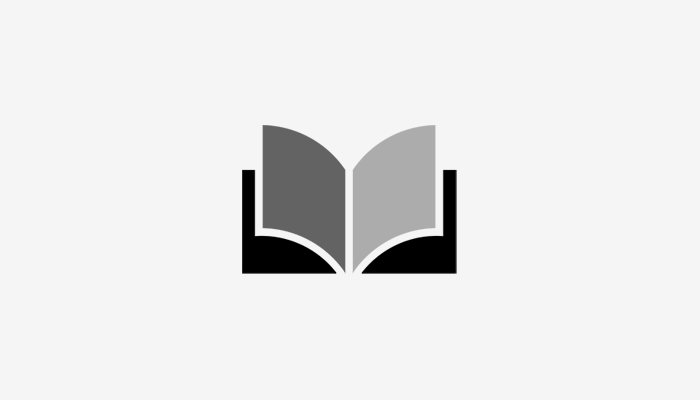
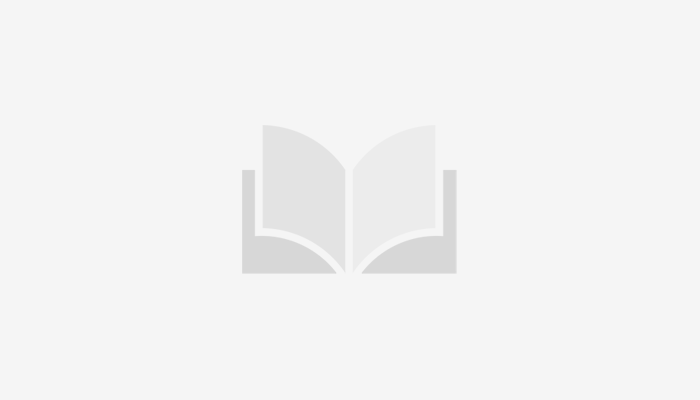
added images, tweakwed UI

Changed region(s): [[0.33, 0.3, 0.66, 0.69]]

diff --git a/lib/pages/Passage_Page.dart b/lib/pages/Passage_Page.dart
@@ -7,15 +7,11 @@ import '../classes/Story.dart';
 import '../classes/Passage.dart';
 import '../widgets/Drawer_Widget.dart';
 
-//  ----------------------------------------------------
-//  This page is the UI part of the main loop of the 
-//  "game."  It is where the magic happens.  It takes
-//  the json fetched by "Fetch_Page.dart" and 
-//  displays it in the UI.
-//
-//  Furthermore, this page accepts choices made by the user
-//  to fetch the next passage.
-//  ----------------------------------------------------
+//  ------------------------------------------------------------
+//  This page is the UI part of the main loop of the "game."  It
+//  is where the magic happens.
+//  For a *REALLY* thourough explanation see END NOTES below...
+//  ------------------------------------------------------------
 
 class Passage_Page extends StatefulWidget {
   const Passage_Page({ super.key });
@@ -41,10 +37,8 @@ class _Passage_PageState extends State<Passage_Page> {
     Utils.log( filename, 'initState()' );
     WidgetsBinding.instance.addPostFrameCallback((_) => _addPostFrameCallbackTriggered(context));
 
-    //  WILLFIX: initialize the ui
-    //    atm it is faked... choice_text and other stuff needs to
-    //    come from Passage() class (already filled out)
-    //    and this page is just for filling the ui
+    //  button_count is used by makeButton() to
+    //  keep track of which button is being made
     button_count = -1;
   }
 
@@ -59,6 +53,11 @@ class _Passage_PageState extends State<Passage_Page> {
     Utils.log( filename, ' _buildTriggered()');
   }
 
+//  ----------------------------------------------------
+//  makeButton() returns the buttons/choices at the 
+//  of each passage
+//  When a button is clicked, the PASSAGE KEY is used
+//  to fetch the next passage, and the loop continues...
   Container makeButton () {
     button_count++;
     int index = button_count;
@@ -84,10 +83,10 @@ class _Passage_PageState extends State<Passage_Page> {
           ),                        
           onPressed: () {
             Utils.log( filename, 'clicked choice #' + index.toString() + ' ("${ Passage.choice_key[index] }")');
-            //  <<< THIS IS WHERE NEXT JSON FILE IS SET >>>
+            //  <<< THIS IS WHERE NEXT "PASSAGE KEY"/"JSON FILE" IS SET >>>
             Config.PASSAGE_KEY = Passage.choice_key[index];
             
-              //  SPECIAL CASE #1: RESTART 
+              //  SPECIAL CASE #1: RESTART KEY
               if ( Config.PASSAGE_KEY == 'RESTART') { 
                 //  WILLFIX: Should this RESET go into Provider?
                 Config.story_started = false;
@@ -96,14 +95,14 @@ class _Passage_PageState extends State<Passage_Page> {
                 });
                 return;
               }              
-              //  SPECIAL CASE #2: MORE OPTIONS
+              //  SPECIAL CASE #2: MORE OPTIONS KEY
               if ( Config.PASSAGE_KEY == 'MORE') { 
               Future.delayed( Duration(milliseconds: Config.short_delay ), () async {
                 Navigator.of(context).pushNamed('More_Page');
               }); 
                 return;
               }              
-              //  if no spcial case do a normal fetch:
+              //  No special case, so do a normal fetch:
               Future.delayed( Duration(milliseconds: Config.short_delay ), () async {
                 Navigator.of(context).pushReplacementNamed('Fetch_Page');
               }); 
@@ -115,8 +114,20 @@ class _Passage_PageState extends State<Passage_Page> {
     );
   }
 
+  //  ----------------------------------------------------
+  //  passageRow() returns one "Row" of the Passage,
+  //  which gets displayed in the UI.
+  //  A "Row" can be the Title, Image, Description, etc
+  //  of that specific passage.
+  //  NOTE: Each "Choice" also gets its own row.
+  //        The generated passageRows are used by 
+  //        fullyBuiltPassage() in the Build below
+  //  WILLFIX: atm passageRow() is inefficient because
+  //           it generates img_box (and more stuff)
+  //           for every row.  So these items
+  //           need to be refactored into helpers
+  //           used by the Switch below
   Widget passageRow( BuildContext context, int index) {
-
     Container bottom_box_padding = Container(height:25);
     if ( Passage.image + Passage.caption + Passage.credit == '') bottom_box_padding = Container(height:0);
 
@@ -128,6 +139,7 @@ class _Passage_PageState extends State<Passage_Page> {
         child: Padding(
           padding: EdgeInsets.fromLTRB(25,0,25,0),
           child: Container(
+            color: Color(0xFFf5f5f5),
             //  book_cover.png should be 600x600 (or at least a square)
             width: double.infinity,
             child: FadeInImage.assetNetwork(
@@ -210,6 +222,9 @@ class _Passage_PageState extends State<Passage_Page> {
     }
   }
 
+  //  fullyBuiltPassage() generates the Passage UI,
+  //  row-by-row, using multiple passageRow()
+  //  calls
   Widget fullyBuiltPassage() {
     int index_max = 7+Passage.choice_text.length;
     return Column(
@@ -246,10 +261,28 @@ class _Passage_PageState extends State<Passage_Page> {
             drawer: Drawer_Widget(),
             body: Container(
               width: double.infinity,
-              child: SingleChildScrollView(child: fullyBuiltPassage()),
+              //  the fullyBuiltPassage()gets wrapped in a 
+              //  SingleChildScrollView() so it can scroll.
+              //  (because a Passage is usually longer than
+              //  the screen...)
+              child: SingleChildScrollView(child: fullyBuiltPassage() ),
             ),
           ),
         ),
     );
   }
 }
+
+//  END NOTES
+//  This page is the main page of the main game loop:
+//    1. Fetch_Page.dart grabs JSON and puts in Passage() class
+//    2. Passage_Page.dart uses the Passage() class to build
+//       the UI, and also accepts user input (when a choice is
+//       made) to take the PASSAGE_KEY and redirect to 
+//       the Fetch_Page again.
+//
+//  This page builds the Passage UI like this:
+//    1. in build() the method fullyBuiltPassage() is called
+//    2. in fullyBuiltPassage(), the UI is built, "row-by-row"
+//       with passageRow() calls, where each passageRow() 
+//       generates one "row" of UI. (Like "Title, image, etc")

diff --git a/lib/pages/More_Page.dart b/lib/pages/More_Page.dart
@@ -51,10 +51,11 @@ class _More_PageState extends State<More_Page> {
           mainAxisSize: MainAxisSize.min,
           children: [
             Text( prompt,
-              style: TextStyle( fontWeight: FontWeight.bold, fontSize: 20 ) 
+              style: TextStyle( fontWeight: FontWeight.bold, fontSize: 20 ),
+              textAlign: TextAlign.center, 
             ),
             SizedBox( height: 20 ),
-            Text( 'You will lose all progress if you quit.'),
+            Text( 'Doing so means you lose all progress and will need to start over.'),
           ],
         ),
         actions: [
@@ -168,7 +169,7 @@ class _More_PageState extends State<More_Page> {
                       padding: EdgeInsets.fromLTRB(16,12,12, 12 ),
                     ),                        
                     onPressed: () async {
-                      result = await confirmContinue( 'Are you sure you want to quit?');
+                      result = await confirmContinue( 'Are you sure you\nwant to quit?');
                       if( result ) {                      
                         Future.delayed( Duration(milliseconds: Config.short_delay ), () async {
                           Navigator.of(context).popUntil(ModalRoute.withName('Title_Page'));
@@ -192,7 +193,7 @@ class _More_PageState extends State<More_Page> {
                       padding: EdgeInsets.fromLTRB(16,12,12, 12 ),
                     ),                        
                     onPressed: () async {
-                      result = await confirmContinue( 'Are you sure you want to quit?');
+                      result = await confirmContinue( 'Are you sure you\want to quit?');
                       if( result ) {
                         Future.delayed( Duration(milliseconds: Config.short_delay ), () async {
                           //Navigator.of(context).pushNamedAndRemoveUntil('Key_Page', (Route route) => false);

diff --git a/lib/pages/Title_Page.dart b/lib/pages/Title_Page.dart
@@ -59,10 +59,11 @@ class Title_Page extends StatelessWidget {
                   Padding(
                     padding: EdgeInsets.fromLTRB((MediaQuery.of(context).size.width/8),0,(MediaQuery.of(context).size.width/8),0),
                     child: Container(
+                      // color: Color(0xFFeeeeee),
                       //  book_cover.png should be 600x600 (or at least a square)
                       width: double.infinity,
                       child: FadeInImage.assetNetwork(
-                        placeholder: "assets/images/title_placeholder_white.png",
+                        placeholder: "assets/images/title_placeholder_transparent.png",
                         image: '${ Config.server_address }${ Story.key }/assets/book_cover.png',
                         fit: BoxFit.cover,
                         width: double.infinity,

diff --git a/lib/classes/Config.dart b/lib/classes/Config.dart
@@ -11,7 +11,7 @@ import 'package:flutter/material.dart';
 class Config {
   
   static const  String    app_name                  = "gamebook";
-  static const  String    app_version               = "1.0.alpha.14";
+  static const  String    app_version               = "1.0.alpha.16";
   static bool             debug_flag                = false;
   
   //  timeouts and delays
